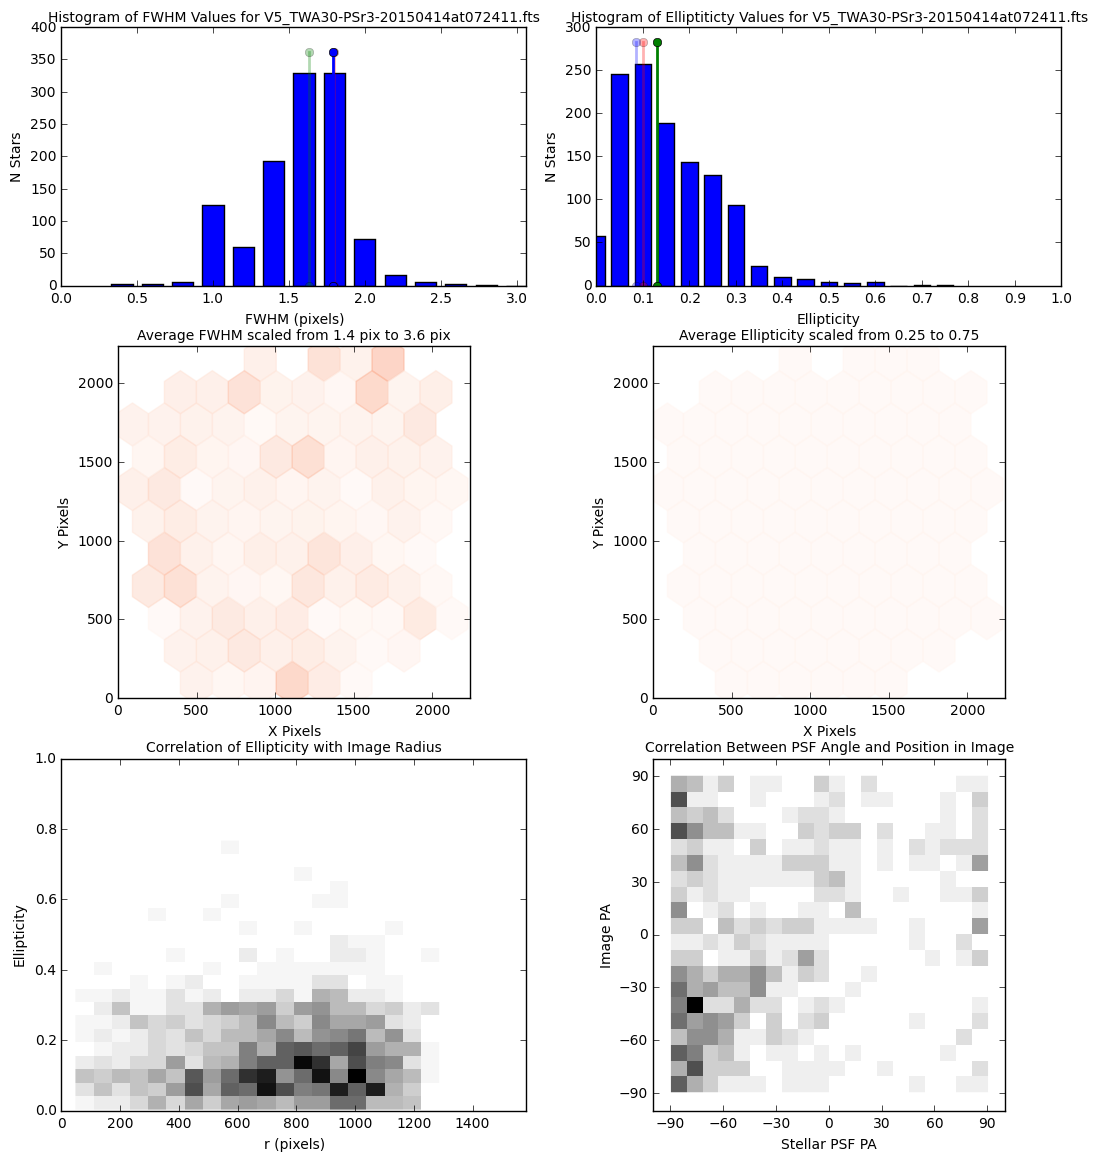
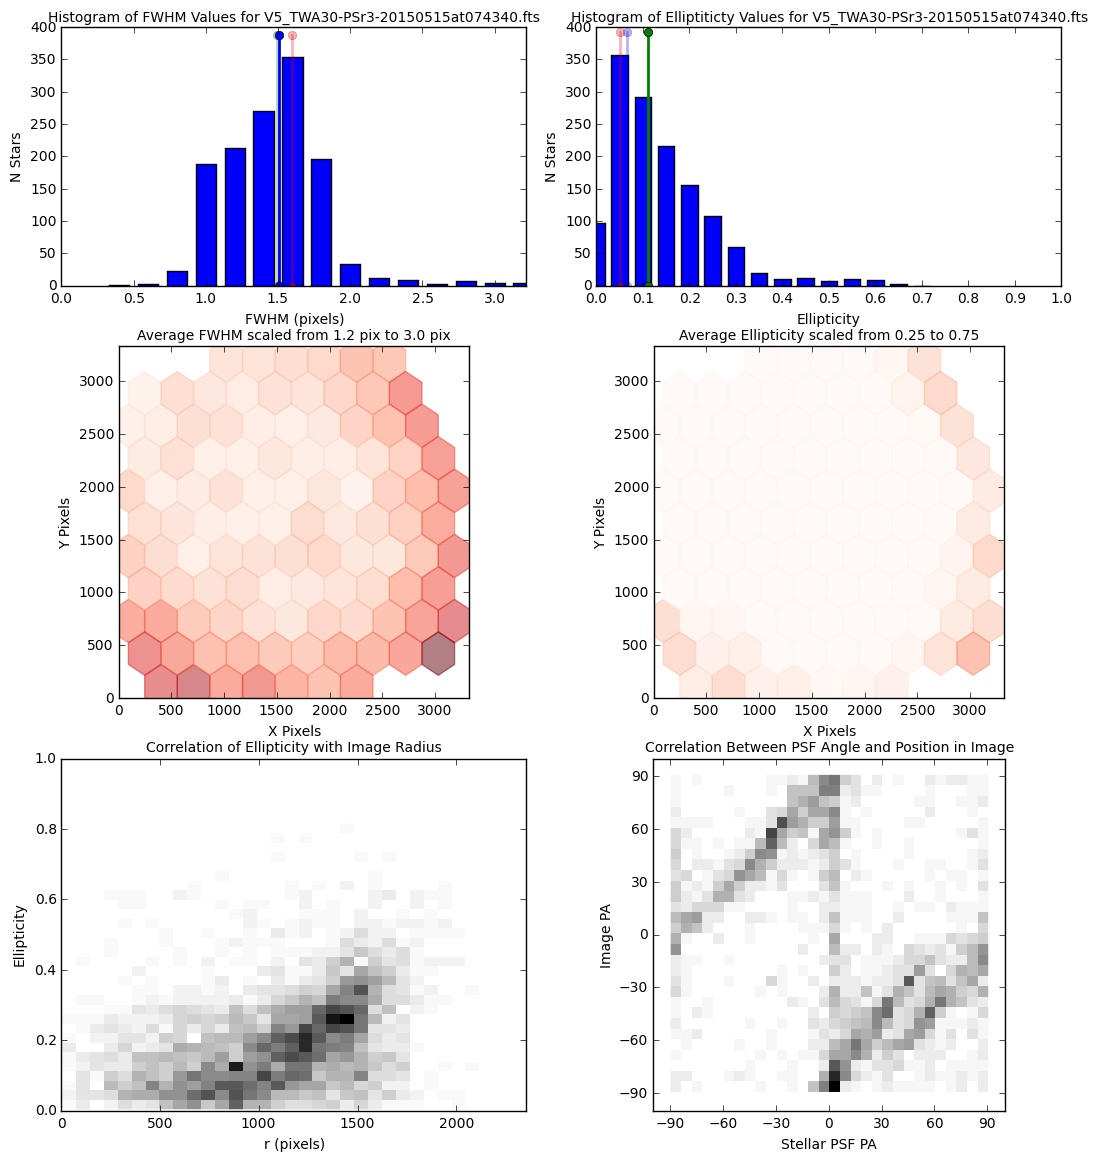
Update plots and discussion of plots in text

diff --git a/papers/josh_walawender/josh_walawender.rst b/papers/josh_walawender/josh_walawender.rst
@@ -109,7 +109,6 @@ Once a world coordinate system (WCS) is present in the image header, then the ``
     # If WCS is not present, solve with astrometry.net,
     if not im.image_WCS:
         im.solve_astrometry()
-        im.read_header()
     # Determine pointing error by comparing telescope
     # pointing coordinates from the header with WCS.
     im.determine_pointing_error()
@@ -130,8 +129,6 @@ SCAMP is invoked with the ``run_SCAMP`` method.  Once a SCAMP solution has been 
         if im.SCAMP_successful:
             # Remap the pixels to a rectilinear grid
             im.run_SWarp()
-            # Update the header
-            im.read_header()
 
 Estimating the Photometric Zero Point
 `````````````````````````````````````
@@ -198,7 +195,7 @@ A plot with PSF quality information can be generated when ``determine_FWHM`` is 
 
    An example of the plot which can be produced by the ``determine_FWHM`` method.  The plot shows histograms of the FWHM and ellipticity values (upper left and upper right respectively), the spatial distribution of FWHM and ellipticity values (middle left and middle right), ellipticity vs. radius within the image (lower left), and the correlation between the measured PSF position angle and the position angle of the star within the image (lower right). :label:`PSFplot`
 
-In the example plot (Fig. :ref:`PSFplot`), the correlation between the measured PSF position angle and the position angle of the star within the image (in the lower right) suggests that there may be a preferential direction to the PSF elongation around :math:`PA \sim -90` indicating that the image may have suffered from tracking error or wind shake.  Severe tracking error resulting in stars elongated by a pixel or more shows up dramatically in this type of plot.  For wide field systems with significant off axis aberration, this plot will  instead show strong diagonal structures because the stellar elongation is correlated with position angle within the image.
+In the example plot (Fig. :ref:`PSFplot`), we can see several different effects.  First, from the spatial distribution of FWHM and ellipticity, as well as the ellipticity vs. radius plot suggest that image quality is falling off at large radius.  This is from a wide field imaging system and we are seeing the signature of off axis aberrations.  This is also suggested in the plot of the correlation between the measured PSF position angle and the position angle of the star within the image which shows strong diagonal components.  There is also, however, a vertical component in that plot at :math:`PA \sim 0` which is suggestive of image drift perhaps due to slight polar misalignment or flexure.
 
 A plot with additional information on the zero point can be generated when calling ``measure_zero_point`` by setting the ``plot`` keyword to ``True``.  This generates a .png file (see Fig. :ref:`ZPplot`) using matplotlib which shows plots of instrumental magnitude vs. catalog magnitude, a histogram of zero point values, a plot of magnitude residuals vs. catalog magnitude, and a a spatial map of zero point over the image.
 
@@ -211,7 +208,7 @@ A plot with additional information on the zero point can be generated when calli
 JPEG versions of the image can be generated using the ``make_JPEG`` method.  The jpeg can be binned or cropped using the ``binning`` or ``crop`` keyword arguments and various overlays can be generated showing, for example, the pointing error and detected and catalog stars.
 
 .. figure:: image.jpg
-   :scale: 22%
+   :scale: 15%
    :figclass: bht
 
    An example jpeg generated by the ``make_JPEG`` method using the ``mark_detected_stars`` and ``mark_pointing`` options. In this example,  pointing error has placed the target (marked by the cyan crosshair) to the lower right (southwest) of the image center (marked by the yellow lines).  Stars from the UCAC4 catalog which were detected in the image are marked with green circles. :label:`image`
@@ -223,7 +220,7 @@ Tornado Web Application
 
 IQMon comes with a tornado web application which, while it can be run stand alone, is intended to be used as a template for adding IQMon results to a more customized web page.  The web application (``web_server.py``) contains two ``tornado`` web handlers: ``ListOfNights`` and ``ListOfImages``.  The first generates a page which lists UT dates and if there are image results associated with a date, then it provides a link to a page with the list of image results for that date.  The second handler produces the page which lists the images for a particular UT date (or target name) and provides a table formatted list of the IQMon measurement results for each image with flagged values color coded red, along with links to jpegs and plots generated for that image.
 
-This web application is intended to be the primary interface for users.  A custom plot of IQMon results over the course of a night is easy to generate from the mongo database entries and represents the highest level interaction.  Serious problems which affect many images can be detected at a glance.  Users can then drill down to see a list of images for that night and see system performance as a table of IQMon results with flagged values highlighted in red.  Finally an individual image can be examined as a jpeg with overlays or by using one of the detailed PSF quality plots or zero point plots to examine detailed performance on an image by image basis.
+This web application is intended to be the primary interface for users.  It provides three levels of interaction to the user.  First, a custom plot of IQMon results over the course of a night is easy to generate from the mongo database entries and represents the highest level of interaction.  Using such a plot, serious problems which affect many images can be detected at a glance.  Users can then drill down to see a list of images for that night and see system performance as a table of IQMon results with flagged values highlighted in red.  Finally an individual image can be examined as a jpeg with overlays or by using the PSF quality plots or zero point plots to examine detailed performance.
 
 References
 ----------
